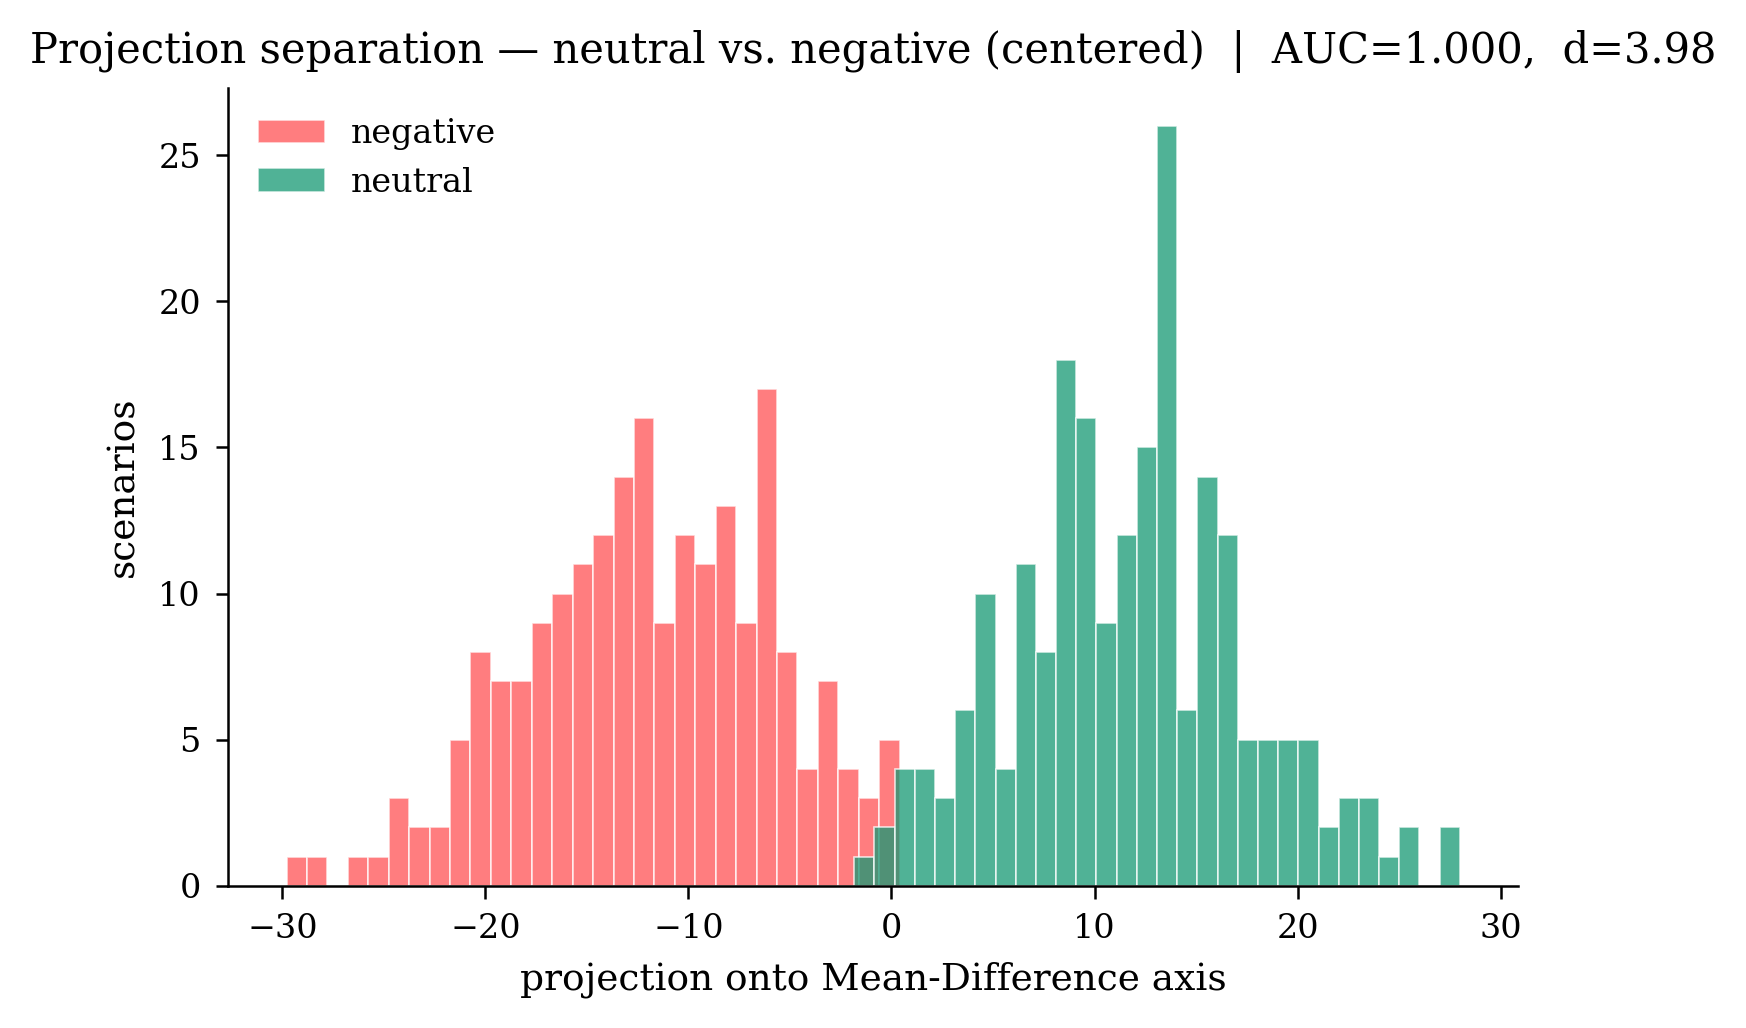
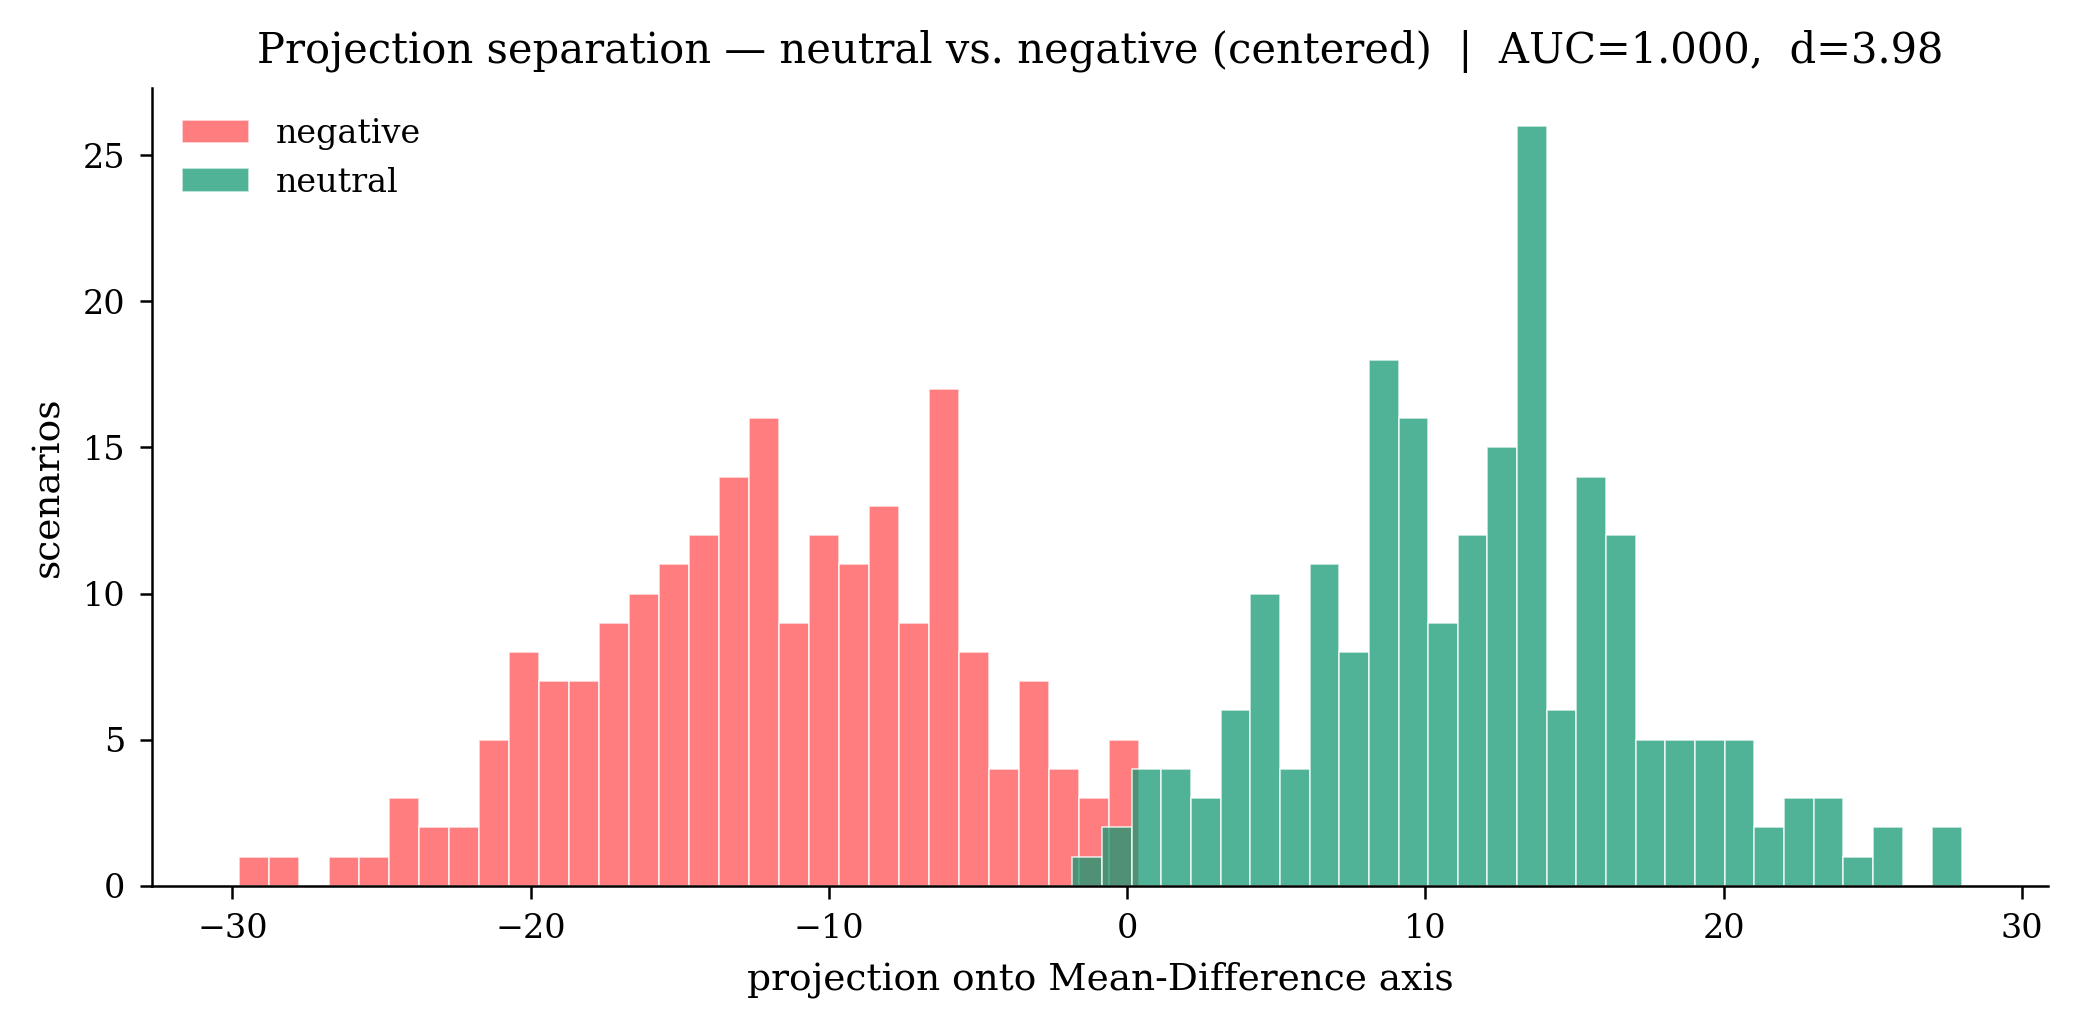
Widen projection histograms and regenerate tigges projection figures

diff --git a/src/lib/figures.py b/src/lib/figures.py
@@ -120,7 +120,7 @@ def plot_agreement_pair(matrices, titles, names, *, suptitle="", figsize=(10, 4.
     return fig, axes
 
 
-def plot_projection(proj, y, *, neg_label, pos_label, title, figsize=(5, 3.5)):
+def plot_projection(proj, y, *, neg_label, pos_label, title, figsize=(7, 3.5)):
     """Single two-class projection histogram (Mean-Difference axis)."""
     fig, ax = plt.subplots(figsize=figsize)
     _draw_projection(ax, proj, y, neg_label, pos_label, title)
